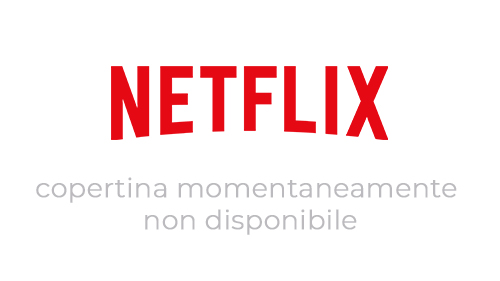
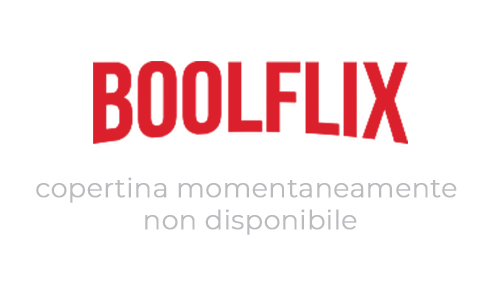
Fix BoolFlix

Changed region(s): [[0.18, 0.1993, 0.84, 0.5125]]

diff --git a/sass/style.scss b/sass/style.scss
@@ -2,7 +2,7 @@
 
 // VARIABLES
 
-$searchbarHeigth: 100px;
+$searchbarHeigth: 70px;
 
 // GENERAL
 
@@ -35,7 +35,7 @@ body {
 // ELEMENTS
 
 .logo {
-  height: $searchbarHeigth - 50px;
+  height: $searchbarHeigth - 25px;
   padding-left: 20px;
 }
 
@@ -283,11 +283,11 @@ span.stars-5::before {
 // hide scrollbar
 .films::-webkit-scrollbar,
 .tv-shows::-webkit-scrollbar {
- display: none;
+  display: none;
 }
 
 .films,
 .tv-shows {
- -ms-overflow-style: none;
- scrollbar-width: none;
+  -ms-overflow-style: none;
+  scrollbar-width: none;
 }

diff --git a/css/style.css b/css/style.css
@@ -24,7 +24,7 @@ body {
 }
 
 .logo {
-  height: 50px;
+  height: 45px;
   padding-left: 20px;
 }
 
@@ -95,13 +95,13 @@ span.stars-5::before {
   align-items: center;
   justify-content: space-between;
   width: 100%;
-  height: 100px;
+  height: 70px;
   border-bottom: 1px solid #d40100;
   background-color: #606060;
 }
 
 .searchbar + * {
-  padding-top: 100px;
+  padding-top: 70px;
 }
 
 .searchbar__search {

diff --git a/index.html b/index.html
@@ -17,7 +17,7 @@
   <body>
     <nav class="searchbar">
 
-      <img class="logo" src="https://upload.wikimedia.org/wikipedia/commons/0/0f/Logo_Netflix.png" alt="netflix logo">
+      <img class="logo" src="img/boolflix.png" alt="boolflix logo">
 
       <div class="search__container">
         <input id="search" class="searchbar__search" type="text" value="">
